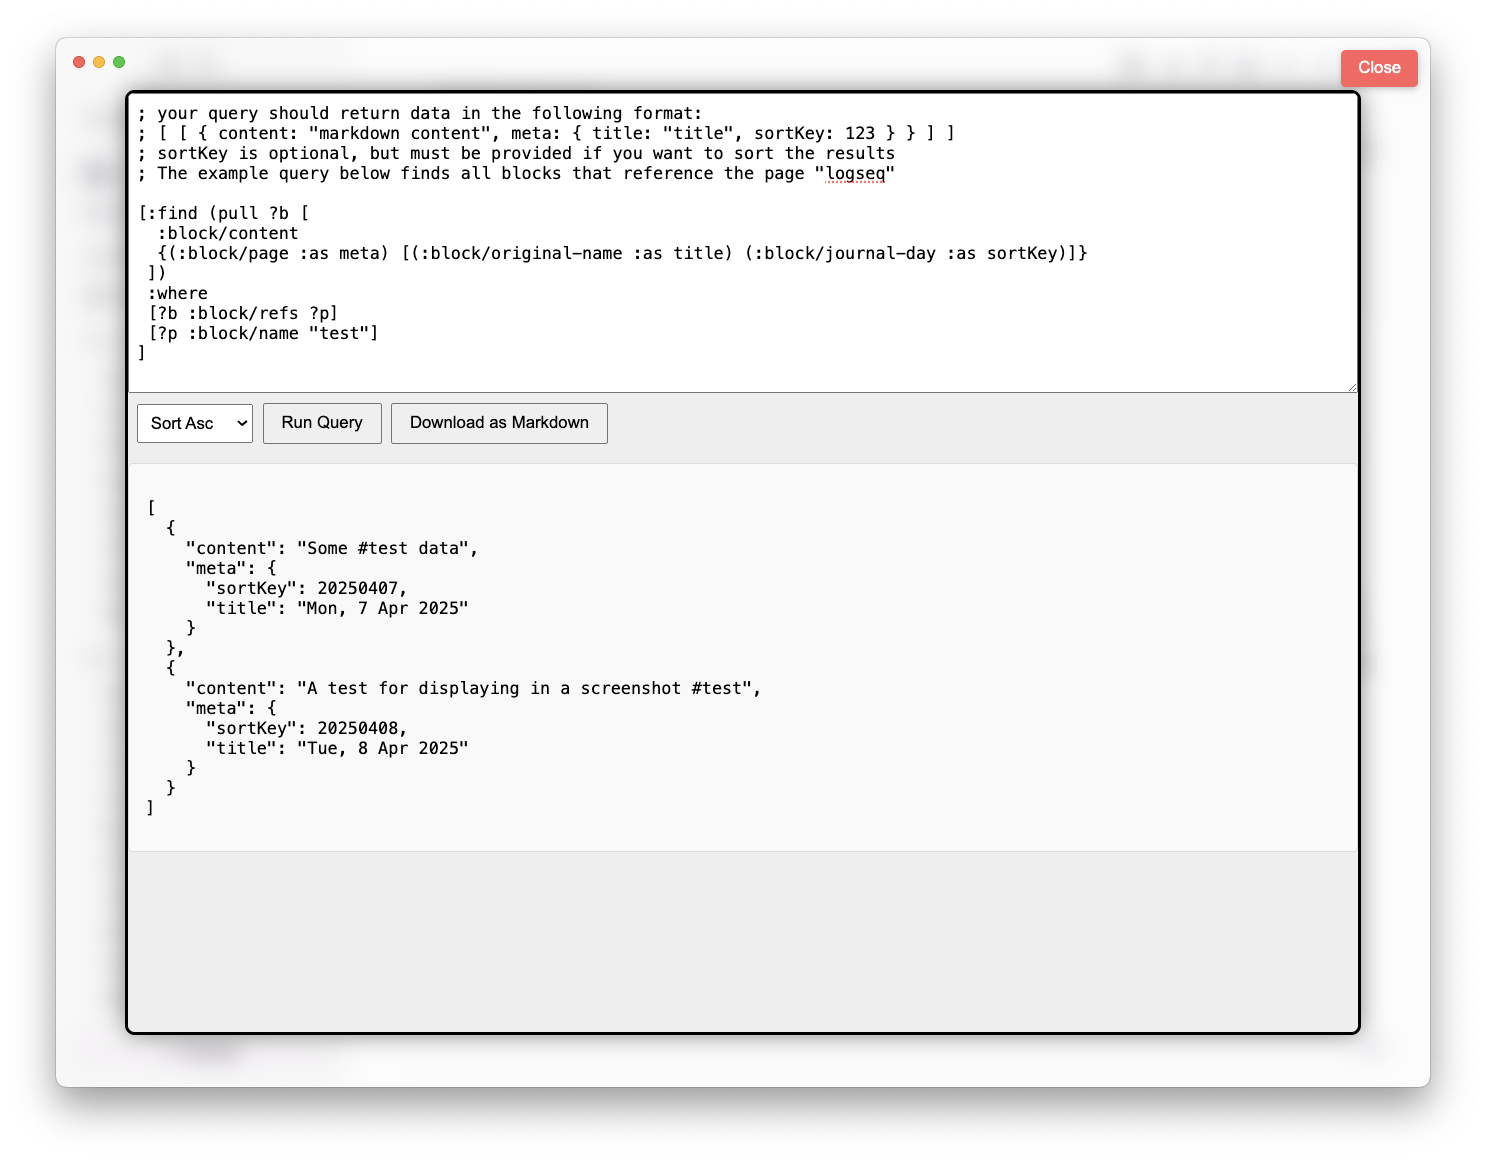
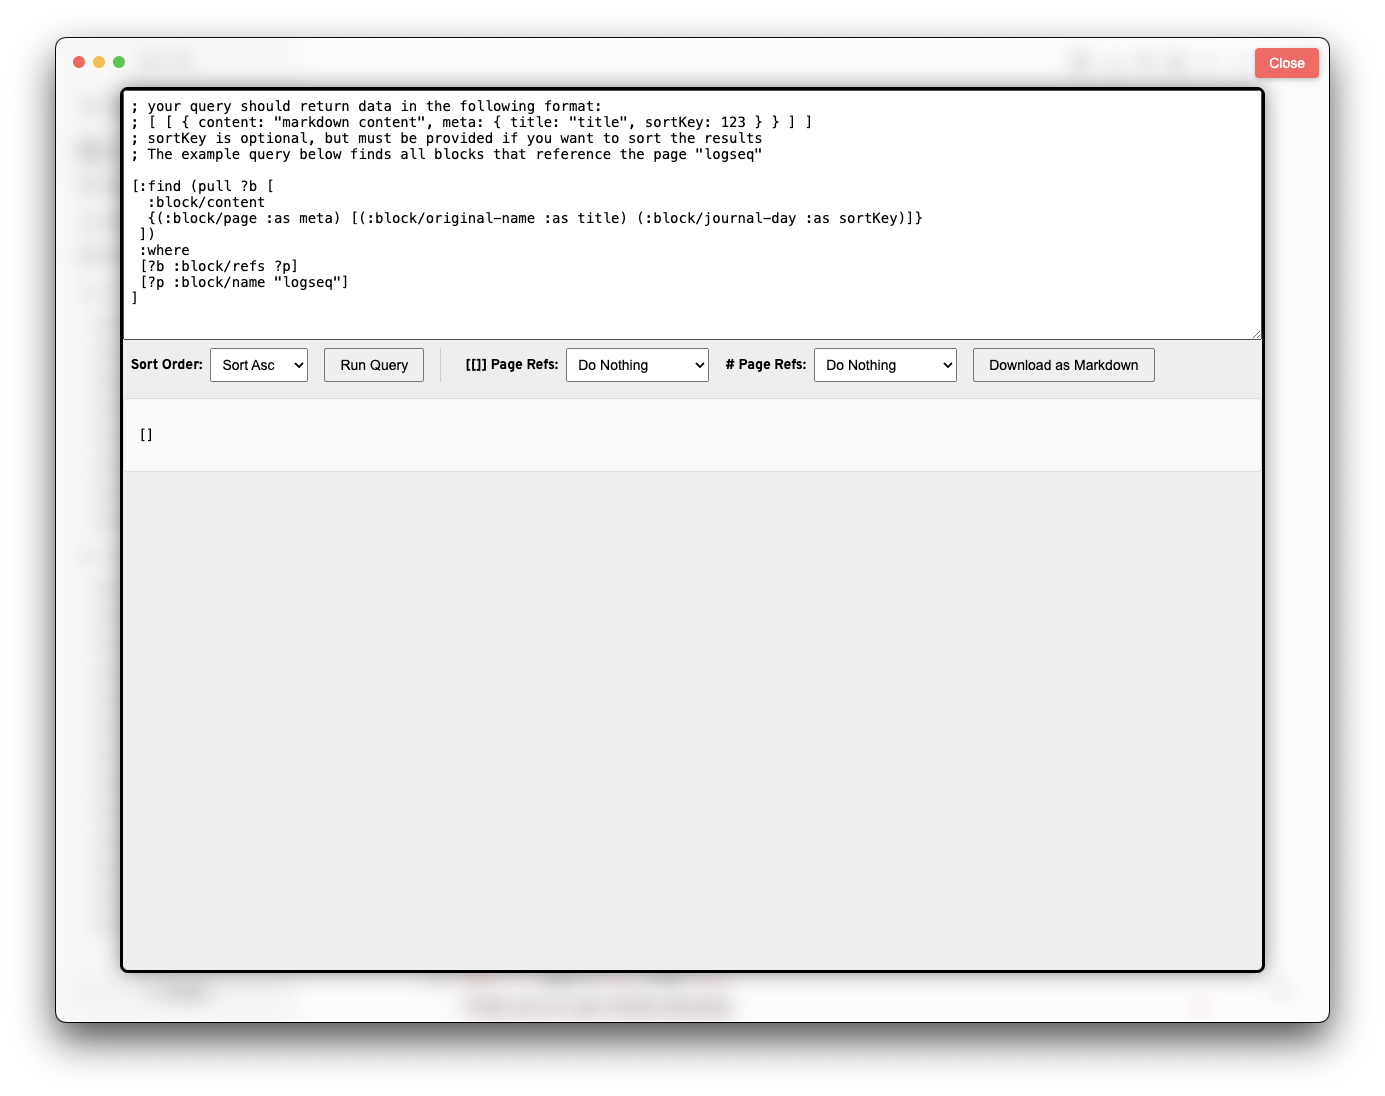
Bump version to 0.0.4 and update README

diff --git a/src/Repl.svelte b/src/Repl.svelte
@@ -3,7 +3,11 @@
 
   export let query: string;
 
+  type RefAction = 'do-nothing' | 'replace-with-text' | 'delete';
+
   let sortOrder: 'asc' | 'desc' = 'asc';
+  let pageRefsAction: RefAction = 'do-nothing';
+  let hashRefsAction: RefAction = 'do-nothing';
 
   async function runQuery() {
     const errorKey = "#lspmsg#error#";
@@ -34,10 +38,19 @@
 
   function unescapeJsonString(jsonEscapedString: string): string {
     try {
-      return JSON.parse(`"${jsonEscapedString}"`);
+      // Escape control characters and ensure the string is JSON-safe
+      const sanitizedString = jsonEscapedString
+        .replace(/\\/g, '\\\\') // Escape backslashes
+        .replace(/\n/g, '\\n') // Escape newlines
+        .replace(/\r/g, '\\r') // Escape carriage returns
+        .replace(/\t/g, '\\t') // Escape tabs
+        .replace(/"/g, '\\"'); // Escape double quotes
+
+      return JSON.parse(`"${sanitizedString}"`);
     } catch (error) {
-      console.error("Failed to unescape JSON string:", error);
-      return jsonEscapedString; // Fallback to the original string if parsing fails
+      console.error("Failed to unescape JSON string:", error, "Input:", jsonEscapedString);
+      // Return the original string if parsing fails
+      return jsonEscapedString;
     }
   }
 
@@ -47,7 +60,20 @@
     const markdownContent = sortedResults
       .map((entry) => {
         const title = entry.meta?.title ? `# ${entry.meta.title}\n\n` : '';
-        const content = unescapeJsonString(entry.content); // Properly unescape JSON-escaped markdown
+        let content = unescapeJsonString(entry.content); // Properly unescape JSON-escaped markdown
+
+        if (pageRefsAction === 'replace-with-text') {
+          content = content.replace(/\[\[(.*?)\]\]/g, '$1');
+        } else if (pageRefsAction === 'delete') {
+          content = content.replace(/\[\[.*?\]\]/g, '');
+        }
+
+        if (hashRefsAction === 'replace-with-text') {
+          content = content.replace(/#(\w+)/g, '$1');
+        } else if (hashRefsAction === 'delete') {
+          content = content.replace(/#\w+/g, '');
+        }
+
         return `${title}${content}`;
       })
       .join('\n\n---\n\n');
@@ -61,12 +87,36 @@
   <div class="query-input">
     <textarea bind:value={query} placeholder="Enter your query here"></textarea>
     <div class="controls">
-      <select bind:value={sortOrder}>
-        <option value="asc">Sort Asc</option>
-        <option value="desc">Sort Desc</option>
-      </select>
-      <button on:click={executeQuery}>Run Query</button>
-      <button on:click={downloadMarkdown}>Download as Markdown</button>
+      <div class="control-group">
+        <label for="sort-order">Sort Order:</label>
+        <select id="sort-order" bind:value={sortOrder}>
+          <option value="asc">Sort Asc</option>
+          <option value="desc">Sort Desc</option>
+        </select>
+      </div>
+      <div class="control-group">
+        <button on:click={executeQuery}>Run Query</button>
+        <div class="vertical-separator"></div>
+      </div>
+      <div class="control-group">
+        <label for="page-refs-action">[[]] Page Refs:</label>
+        <select id="page-refs-action" bind:value={pageRefsAction}>
+          <option value="do-nothing">Keep</option>
+          <option value="replace-with-text">Replace with text</option>
+          <option value="delete">Delete</option>
+        </select>
+      </div>
+      <div class="control-group">
+        <label for="hash-refs-action"># Page Refs:</label>
+        <select id="hash-refs-action" bind:value={hashRefsAction}>
+          <option value="do-nothing">Keep</option>
+          <option value="replace-with-text">Replace with text</option>
+          <option value="delete">Delete</option>
+        </select>
+      </div>
+      <div class="control-group">
+        <button on:click={downloadMarkdown}>Download as Markdown</button>
+      </div>
     </div>
   </div>
   <div class="query-result">
@@ -97,9 +147,27 @@
 
   .controls {
     display: flex;
+    flex-wrap: wrap;
+    gap: 1em;
+    margin-left: 0.5em;
+  }
+
+  .control-group {
+    display: flex;
+    flex-direction: row;
     align-items: center;
     gap: 0.5em;
-    margin-left: 0.5em;
+  }
+
+  label {
+    font-size: 14px;
+    font-weight: bold;
+  }
+
+  select, button {
+    padding: 0.5em;
+    font-size: 14px;
+    flex-grow: 1; /* Ensures alignment with selects */
   }
 
   textarea {
@@ -117,11 +185,6 @@
     cursor: pointer;
   }
 
-  select {
-    padding: 0.5em;
-    font-size: 14px;
-  }
-
   .query-result {
     white-space: pre-wrap;
     font-family: monospace;
@@ -135,5 +198,12 @@
 
   .error {
     color: red;
+  }
+
+  .vertical-separator {
+    width: 1px;
+    background-color: #ccc;
+    height: 100%;
+    margin: 0 0.5em;
   }
 </style>

diff --git a/README.md b/README.md
@@ -4,7 +4,8 @@ A plugin for Logseq that allows you to run a query and export the results to mar
 
 ![](./screenshot.png)
 
-You can run any query you'd like. If you'd like to take advantage of sorting or exporting to markdown, the results of your query will need to produce data with the following structure:
+## Querying
+You can run any query you'd like and see the resulting json. If you'd like to take advantage of sorting or exporting to markdown, the json from your query will need to have the following structure:
 
 ```json
 [ 
@@ -21,7 +22,7 @@ You can run any query you'd like. If you'd like to take advantage of sorting or 
 ]
 ```
 
-When you first open the plugin, the same query will provide results in the expected format. For reference, that query is:
+When you first open the plugin, the sample query will provide results in the expected format. For reference, that query is:
 
 ```cljs
 [:find (pull ?b [
@@ -33,4 +34,13 @@ When you first open the plugin, the same query will provide results in the expec
  [?p :block/name "logseq"]
 ]
 ```
+
+### Page and Hash References Processing
+
+When exporting query results to markdown, you can customize how page references (`[[]]`) and hash references (`#`) are handled. The available options are:
+
+- **Keep**: Leave the references as they are.
+- **Replace with text**: Convert references to plain text.
+- **Delete**: Remove the references entirely.
+
 
